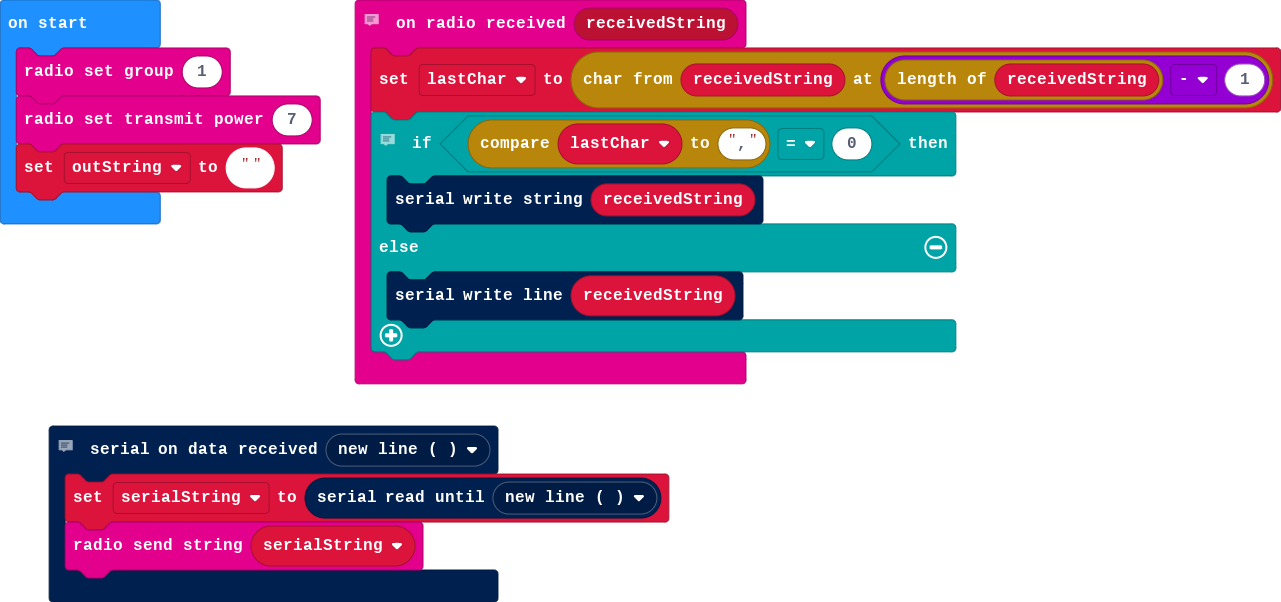
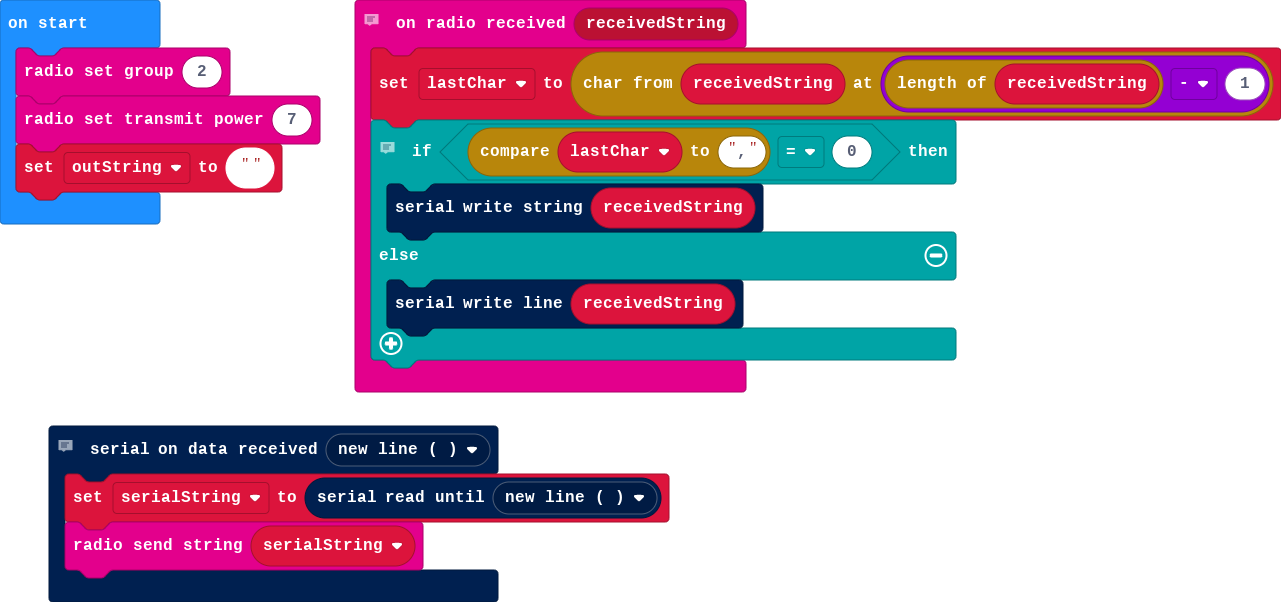
changed to radio group 2

Changed region(s): [[0.281, 0.0897, 1.0, 0.6578]]

diff --git a/main.ts b/main.ts
@@ -15,6 +15,6 @@ serial.onDataReceived(serial.delimiters(Delimiters.NewLine), function () {
 })
 let serialString = ""
 let lastChar = ""
-radio.setGroup(1)
+radio.setGroup(2)
 radio.setTransmitPower(7)
 let outString = ""
